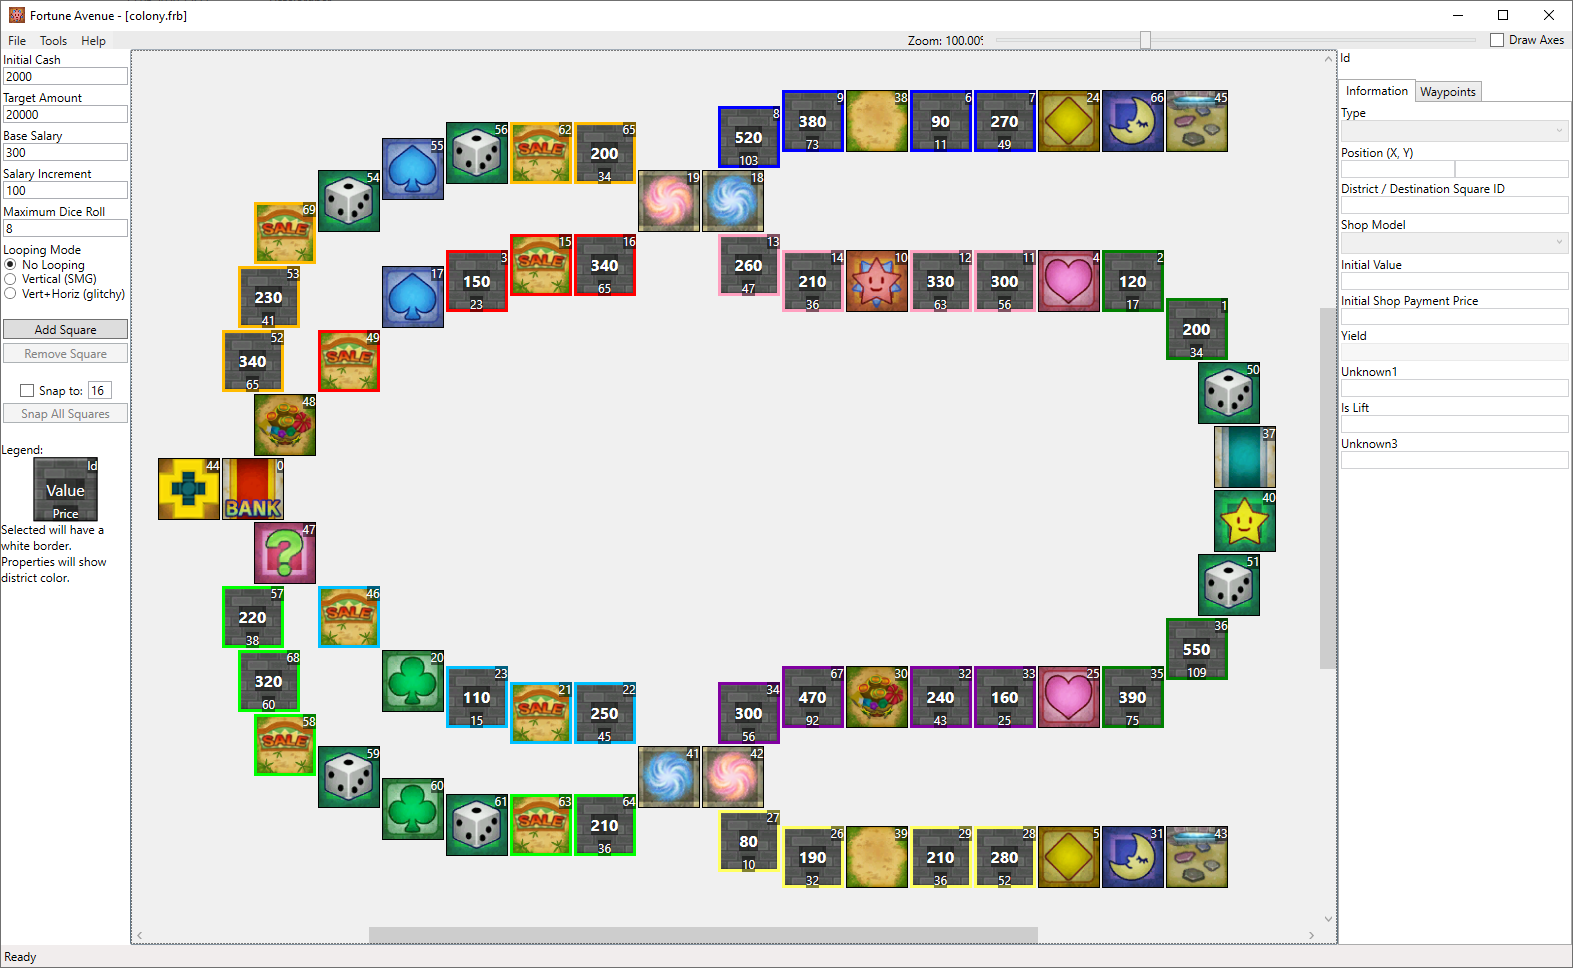
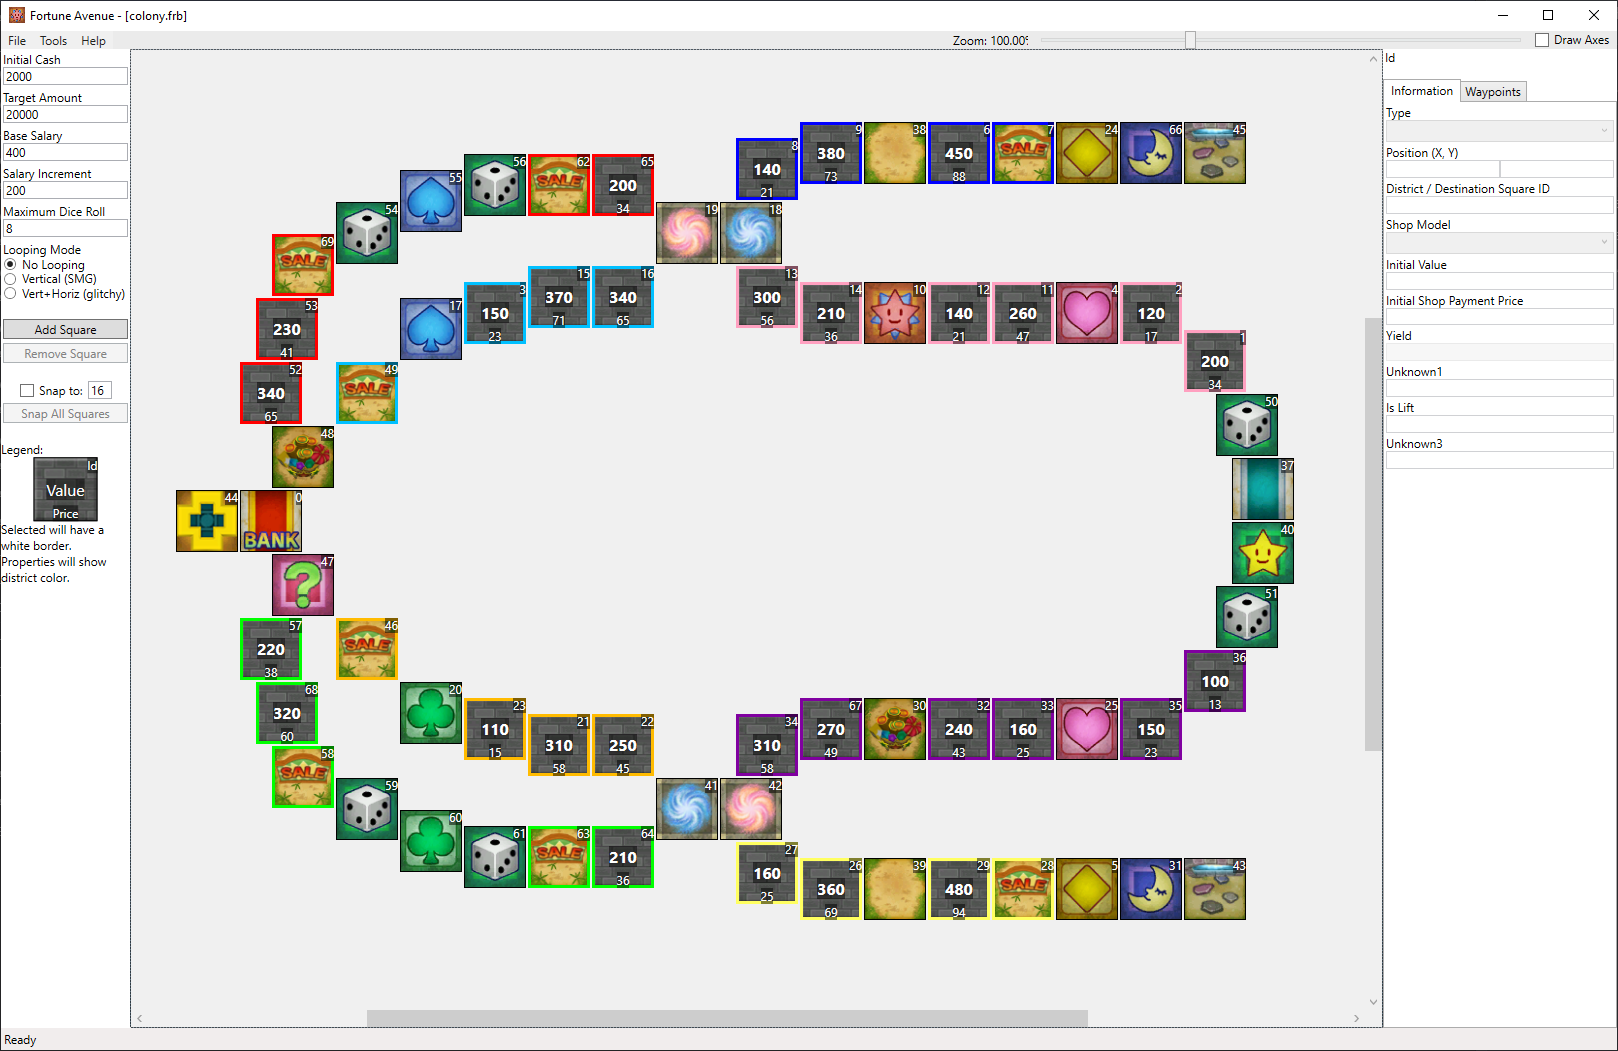
Update Freighter to v2

Changed region(s): [[0.0, 0.0, 1.0, 1.0], [0.5607, 0.031, 0.6542, 0.062], [0.7165, 0.031, 0.7476, 0.062]]

diff --git a/Freighter/README.md b/Freighter/README.md
@@ -12,8 +12,8 @@ A map which uses the Good Egg Galaxy ship as its base shape. The switches swap a
 | ----------------- | ---------- |
 | Initial Cash      | 2000       |
 | Target Amount     | 20000      | 
-| Base Salary       | 300        | 
-| Salary Increment  | 150        | 
+| Base Salary       | 400        | 
+| Salary Increment  | 200        | 
 | Maximum Dice Roll | 8          | 
 | Looping Mode      | No Looping | 
 
@@ -23,6 +23,11 @@ A map which uses the Good Egg Galaxy ship as its base shape. The switches swap a
 - Needs the ASM hack for the 0x2E switch square
 
 ## Changelog
+
+### v2
+- Merge 3 four-shop-districts into 2 six-shop-districts
+- Rebalance shop values
+- Increase base and increment salary
 
 ### v1
 - Initial Release
